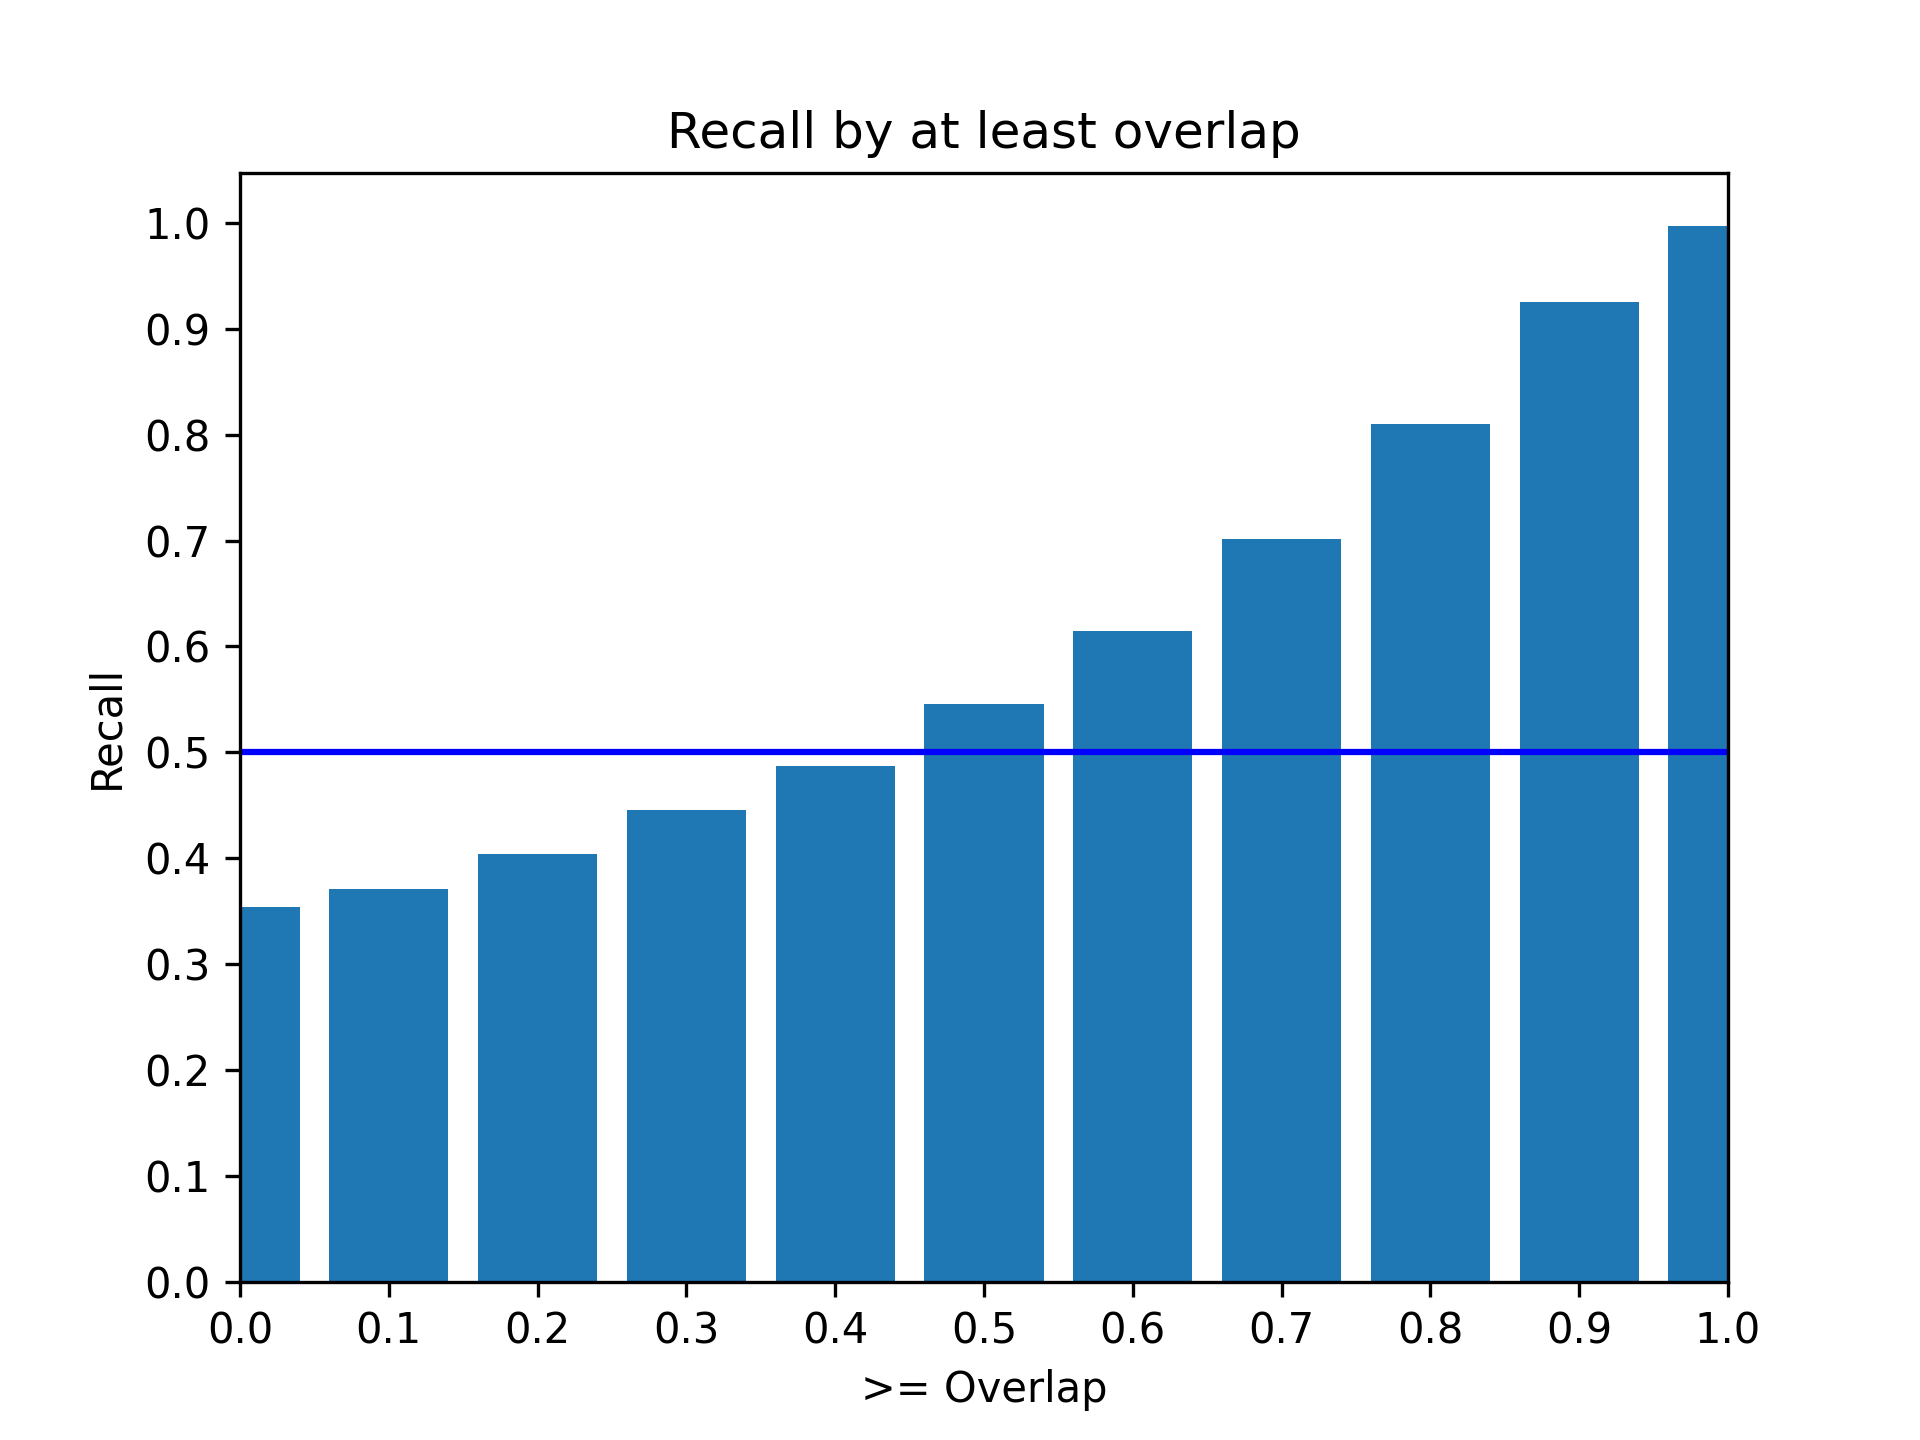
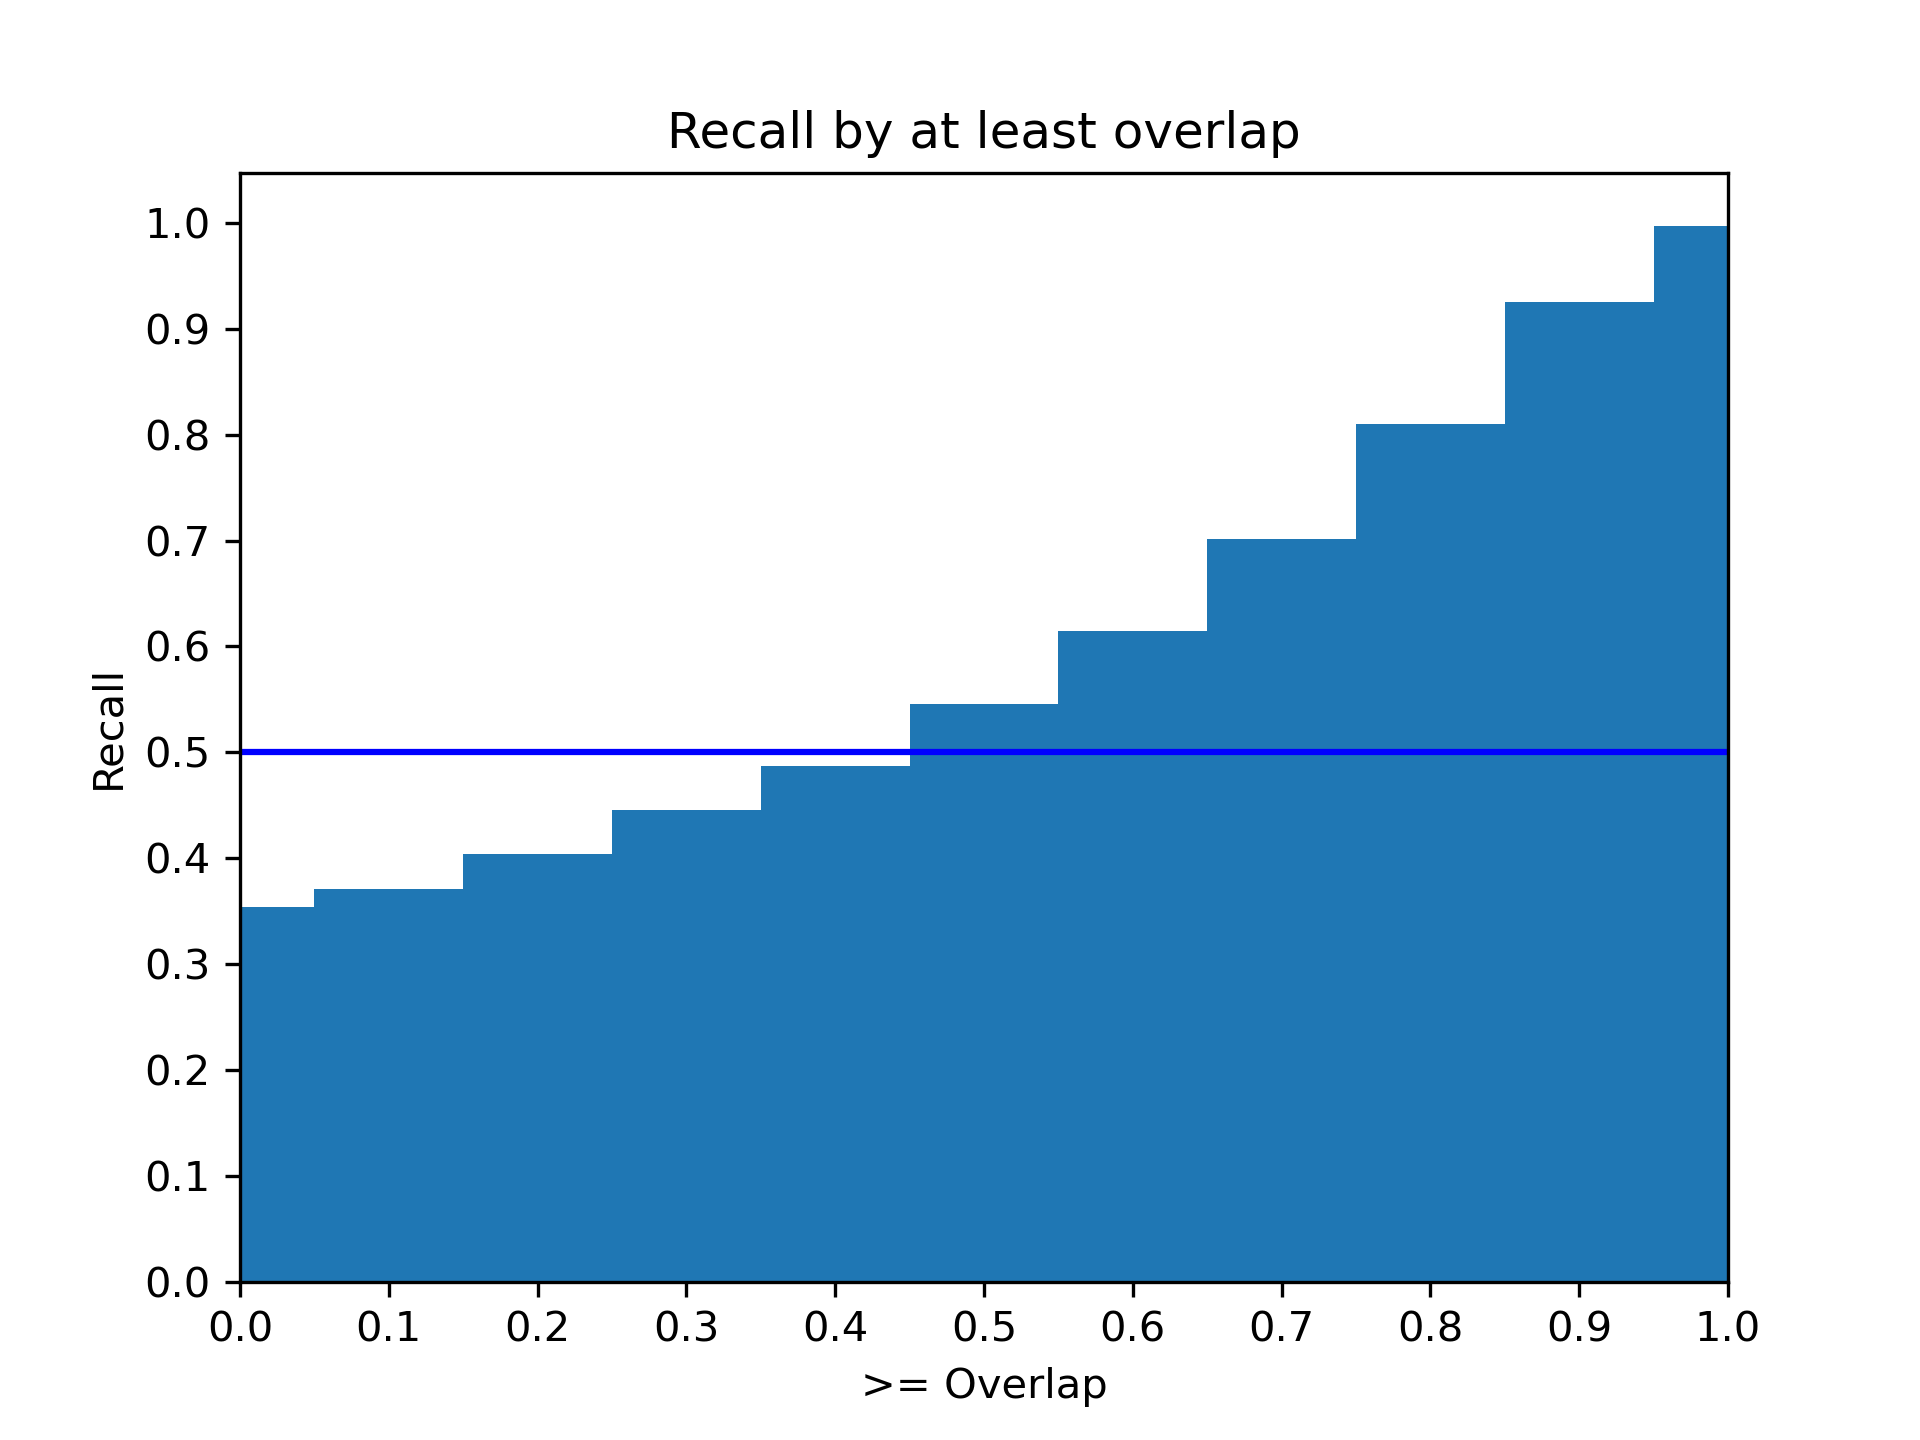
giggle bench now histograms not bar graphs

diff --git a/src/giggle.py b/src/giggle.py
@@ -181,7 +181,7 @@ def analyze_results(modernResults, ancientResults, outDir, k):
     ticks = np.arange(0, 1.1, 0.1)
 
     plt.figure()
-    plt.bar(ticks, hitProb, width=0.08)
+    plt.bar(ticks, hitProb, width=0.1)
 
     plt.xticks(ticks)
     plt.xlim(0, 1)
@@ -208,7 +208,7 @@ def analyze_results(modernResults, ancientResults, outDir, k):
     hitProbSum = runningHits / runningTotals
 
     plt.figure()
-    plt.bar(ticks, hitProbSum, width=0.08)
+    plt.bar(ticks, hitProbSum, width=0.1)
 
     plt.xticks(ticks)
     plt.xlim(0, 1)
@@ -231,14 +231,14 @@ def main():
     inputsInMemory = True
 
     padToLength = 100
-    k = 90
+    k = 100
 
-    querySwellFactor = 0.9
+    querySwellFactor = 1
     queryChunkAmnt = 1
     sampleSwellFactor = 1
     sampleChunkAmnt = 1
     queryTranslation = 0
-    expName = "query-shrink-light"
+    expName = "straight"
 
     makeNewEmbeds = len(sys.argv) < 2 or sys.argv[1] != "analysis"
     doAnalysis = not makeNewEmbeds

diff --git a/experiments/giggleBench/straight/info.md b/experiments/giggleBench/straight/info.md
@@ -1,4 +1,4 @@
-Date: 2024-10-21 07:34:56.080326
+Date: 2024-10-21 10:40:12.660116
 Parameters:
 	expName: straight
 	k: 100
